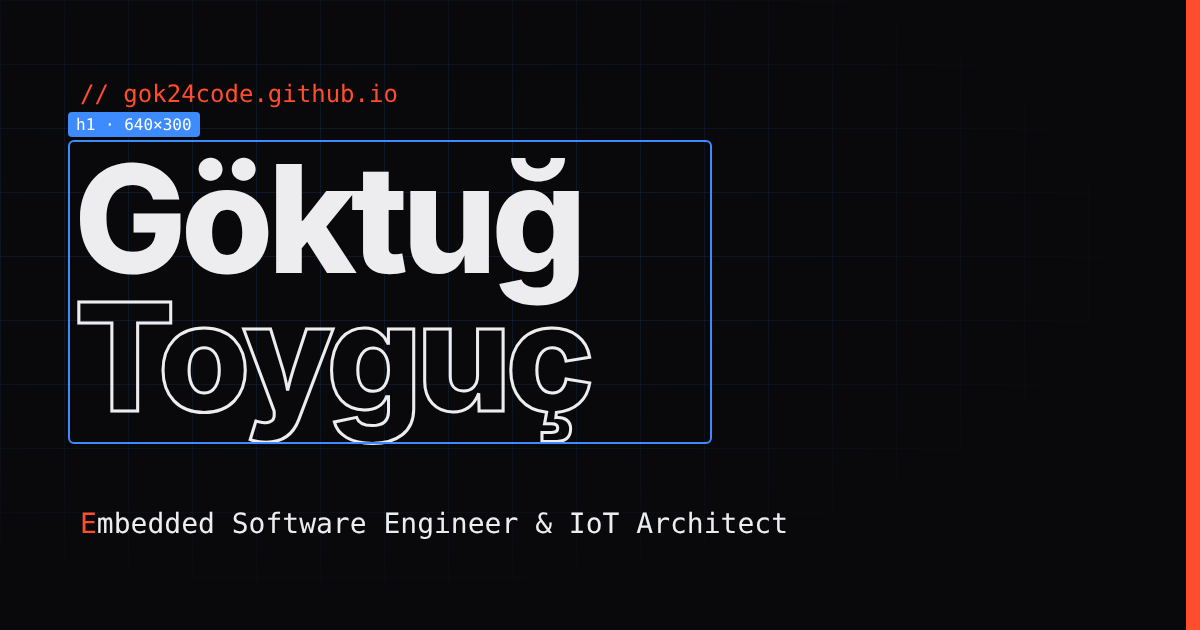
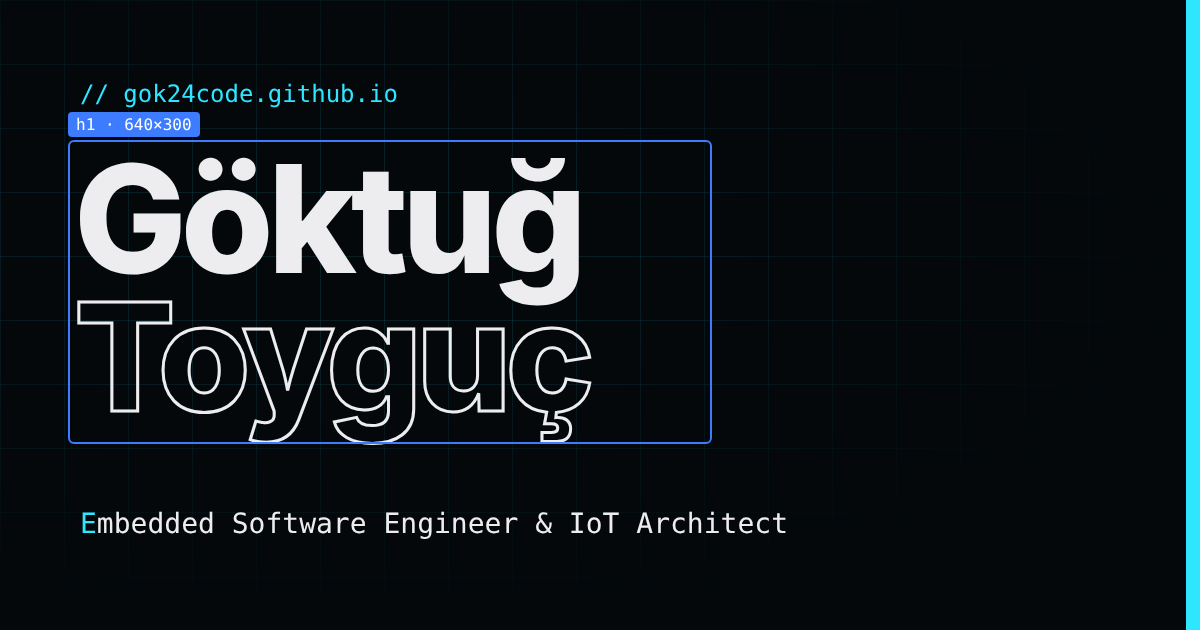
Arc-reactor cyan palette and radial glow background
- Accent switched from red to cyan (#2ee6ff) with dark ink on fills and soft glows
- Fixed radial-gradient light layer with slow drift and a faint reactor ring behind the name
- Reveal cover is now a panel-coloured skeleton block instead of flat page colour
- Favicon and Open Graph image recoloured

Changed region(s): [[0.9867, 0.0, 1.0, 1.0], [0.0925, 0.1206, 0.3392, 0.181], [0.0617, 0.8143, 0.0925, 0.8444]]

diff --git a/src/styles.css b/src/styles.css
@@ -1,16 +1,18 @@
 /* ---------- tokens ---------- */
 :root {
-  --bg: #09090b;
-  --panel: #111114;
-  --panel-2: #16161a;
-  --line: #24242a;
-  --line-2: #33333b;
-  --text: #ededef;
-  --muted: #8b8b95;
-  --dim: #5d5d66;
-  --accent: #ff4d2e;
-  --accent-soft: rgba(255, 77, 46, 0.14);
-  --wire: #3d8bff;
+  --bg: #04080b;
+  --panel: #0a1116;
+  --panel-2: #0e171e;
+  --line: #16232c;
+  --line-2: #22374a;
+  --text: #e8f4f8;
+  --muted: #7f939f;
+  --dim: #4f6270;
+  --accent: #2ee6ff;
+  --accent-ink: #001a22;
+  --glow: 0 0 14px rgba(46, 230, 255, 0.55), 0 0 40px rgba(46, 230, 255, 0.18);
+  --accent-soft: rgba(46, 230, 255, 0.12);
+  --wire: #3d7bff;
   --ok: #3ddc84;
   --mono: 'JetBrains Mono', ui-monospace, SFMono-Regular, Menlo, monospace;
   --sans: 'Inter', system-ui, -apple-system, Segoe UI, sans-serif;
@@ -59,7 +61,7 @@ button {
 
 ::selection {
   background: var(--accent);
-  color: #fff;
+  color: var(--accent-ink);
 }
 
 .muted,
@@ -68,6 +70,7 @@ button {
 }
 
 .label {
+  text-shadow: 0 0 12px rgba(46, 230, 255, 0.45);
   font-family: var(--mono);
   font-size: 12px;
   letter-spacing: 0.04em;
@@ -83,13 +86,50 @@ button {
   padding-bottom: 48px; /* status bar */
 }
 
+/* soft radial light: arc-reactor glow behind the hero, deep blue to the right,
+   teal haze lower down. Slowly drifts; static with reduced motion. */
+.bg-glow {
+  position: fixed;
+  inset: -20vmax;
+  pointer-events: none;
+  z-index: 0;
+  background:
+    radial-gradient(38vmax 38vmax at 26% 24%, rgba(46, 230, 255, 0.16), transparent 62%),
+    radial-gradient(34vmax 34vmax at 78% 30%, rgba(61, 123, 255, 0.16), transparent 64%),
+    radial-gradient(46vmax 40vmax at 55% 92%, rgba(0, 196, 180, 0.10), transparent 66%),
+    radial-gradient(28vmax 28vmax at 8% 80%, rgba(61, 123, 255, 0.08), transparent 70%);
+  filter: saturate(1.1);
+  animation: drift 26s ease-in-out infinite alternate;
+}
+
+.bg-glow::after {
+  /* faint ring, like a reactor housing, centred behind the name */
+  content: '';
+  position: absolute;
+  left: calc(20vmax + 26vw - 22vmax);
+  top: calc(20vmax + 24vh - 22vmax);
+  width: 44vmax;
+  height: 44vmax;
+  border-radius: 50%;
+  background: radial-gradient(circle, transparent 54%, rgba(46, 230, 255, 0.07) 56%, transparent 58%, transparent 66%, rgba(46, 230, 255, 0.045) 67.5%, transparent 69%);
+}
+
+@keyframes drift {
+  from {
+    transform: translate3d(0, 0, 0) scale(1);
+  }
+  to {
+    transform: translate3d(2.5vmax, -1.5vmax, 0) scale(1.06);
+  }
+}
+
 .bg-grid {
   position: fixed;
   inset: 0;
   pointer-events: none;
   background-image:
-    linear-gradient(to right, rgba(255, 255, 255, 0.035) 1px, transparent 1px),
-    linear-gradient(to bottom, rgba(255, 255, 255, 0.035) 1px, transparent 1px);
+    linear-gradient(to right, rgba(46, 230, 255, 0.045) 1px, transparent 1px),
+    linear-gradient(to bottom, rgba(46, 230, 255, 0.045) 1px, transparent 1px);
   background-size: 64px 64px;
   mask-image: radial-gradient(ellipse 80% 60% at 50% 0%, #000 30%, transparent 75%);
   -webkit-mask-image: radial-gradient(ellipse 80% 60% at 50% 0%, #000 30%, transparent 75%);
@@ -128,7 +168,8 @@ main {
   height: 28px;
   border-radius: 7px;
   background: var(--accent);
-  color: #fff;
+  color: var(--accent-ink);
+  box-shadow: var(--glow);
   font-family: var(--sans);
   font-weight: 800;
   font-size: 15px;
@@ -221,12 +262,13 @@ main {
 .btn--primary {
   background: var(--accent);
   border-color: var(--accent);
-  color: #fff;
+  color: var(--accent-ink);
+  box-shadow: 0 0 24px rgba(46, 230, 255, 0.35);
 }
 
 .btn--primary:hover {
-  background: #ff6145;
-  border-color: #ff6145;
+  background: #7ff3ff;
+  border-color: #7ff3ff;
 }
 
 .hero__card {
@@ -331,7 +373,7 @@ main {
   font-family: var(--mono);
   font-size: 13px;
   line-height: 1.65;
-  box-shadow: 0 30px 80px -40px rgba(255, 77, 46, 0.25);
+  box-shadow: 0 30px 90px -40px rgba(46, 230, 255, 0.35);
 }
 
 .term__bar {
@@ -359,6 +401,7 @@ main {
 
 .term__dots i:first-child {
   background: var(--accent);
+  box-shadow: 0 0 8px var(--accent);
 }
 
 .term__title {
@@ -518,7 +561,7 @@ main {
 }
 
 .chip--accent {
-  border-color: rgba(255, 77, 46, 0.5);
+  border-color: rgba(46, 230, 255, 0.5);
   color: var(--accent);
 }
 
@@ -777,7 +820,8 @@ a.status__item:hover {
   padding: 11px 16px;
   border: 1px solid var(--accent);
   border-radius: 10px;
-  background: #140b09;
+  background: #031319;
+  box-shadow: var(--glow);
   font-family: var(--mono);
   font-size: 12.5px;
   color: var(--text);
@@ -820,8 +864,8 @@ a.status__item:hover {
   position: absolute;
   inset: 0;
   background-image:
-    linear-gradient(to right, rgba(61, 139, 255, 0.13) 1px, transparent 1px),
-    linear-gradient(to bottom, rgba(61, 139, 255, 0.13) 1px, transparent 1px);
+    linear-gradient(to right, rgba(46, 230, 255, 0.10) 1px, transparent 1px),
+    linear-gradient(to bottom, rgba(46, 230, 255, 0.10) 1px, transparent 1px);
   background-size: 64px 64px;
   clip-path: inset(0 100% 0 0);
   animation: wipe 0.9s cubic-bezier(0.7, 0, 0.2, 1) forwards;
@@ -868,6 +912,7 @@ a.status__item:hover {
 }
 
 .caret {
+  box-shadow: var(--glow);
   display: inline-block;
   width: 8px;
   height: 15px;
@@ -893,6 +938,7 @@ a.status__item:hover {
 }
 
 .boot__fill {
+  box-shadow: var(--glow);
   height: 100%;
   background: var(--accent);
   transform-origin: left;
@@ -940,7 +986,8 @@ a.status__item:hover {
   content: '';
   inset: -3px;
   z-index: 2;
-  background: var(--bg);
+  border-radius: 6px;
+  background: linear-gradient(90deg, var(--panel) 0%, var(--panel-2) 100%);
   border-left: 2px solid var(--accent);
   transform-origin: right;
 }
@@ -1074,6 +1121,15 @@ a.status__item:hover {
   }
   .b::before {
     content: '';
+  }
+  .bg-glow {
+    background:
+      radial-gradient(60vmax 50vmax at 30% 18%, rgba(46, 230, 255, 0.16), transparent 62%),
+      radial-gradient(50vmax 50vmax at 90% 45%, rgba(61, 123, 255, 0.15), transparent 64%),
+      radial-gradient(60vmax 50vmax at 40% 95%, rgba(0, 196, 180, 0.10), transparent 66%);
+  }
+  .bg-glow::after {
+    display: none;
   }
   .bg-grid,
   .boot__grid {

diff --git a/index.html b/index.html
@@ -5,7 +5,7 @@
     <meta name="viewport" content="width=device-width, initial-scale=1.0, viewport-fit=cover" />
     <title>Göktuğ Toyguç · Embedded Software Engineer</title>
     <meta name="description" content="Göktuğ Toyguç — Embedded Software Engineer & IoT Architect. Bridging low-level hardware (C/C++) and modern interfaces. Computer Engineering student." />
-    <meta name="theme-color" content="#09090b" />
+    <meta name="theme-color" content="#04080b" />
     <link rel="canonical" href="https://gok24code.github.io/" />
     <link rel="icon" type="image/svg+xml" href="/favicon.svg" />
 
@@ -22,14 +22,14 @@
     <link rel="preconnect" href="https://fonts.gstatic.com" crossorigin />
     <link rel="preconnect" href="https://api.github.com" crossorigin />
     <link href="https://fonts.googleapis.com/css2?family=Inter:wght@400;600;800&family=JetBrains+Mono:wght@400;500&display=swap" rel="stylesheet" />
-    <style>html,body{background:#09090b;color:#ededef}</style>
+    <style>html,body{background:#04080b;color:#ededef}</style>
   </head>
   <body>
     <div id="root"></div>
     <noscript>
       <p style="font-family:system-ui;padding:24px">Göktuğ Toyguç — Embedded Software Engineer &amp; IoT Architect.
-        <a href="https://github.com/gok24code" style="color:#ff4d2e">GitHub</a> ·
-        <a href="https://www.linkedin.com/in/g%C3%B6ktu%C4%9F-toygu%C3%A7-7a344425b/" style="color:#ff4d2e">LinkedIn</a></p>
+        <a href="https://github.com/gok24code" style="color:#2ee6ff">GitHub</a> ·
+        <a href="https://www.linkedin.com/in/g%C3%B6ktu%C4%9F-toygu%C3%A7-7a344425b/" style="color:#2ee6ff">LinkedIn</a></p>
     </noscript>
     <script type="module" src="/src/main.jsx"></script>
   </body>

diff --git a/src/App.jsx b/src/App.jsx
@@ -57,6 +57,7 @@ export default function App() {
     <>
       {showBoot && <Boot gh={gh} onDone={onBootDone} />}
       <div className={cls} ref={rootRef}>
+        <div className="bg-glow" aria-hidden="true" />
         <div className="bg-grid" aria-hidden="true" />
         <nav className="nav b" data-tag="nav" style={{ '--i': 0 }}>
           <a href="#top" className="nav__logo">
